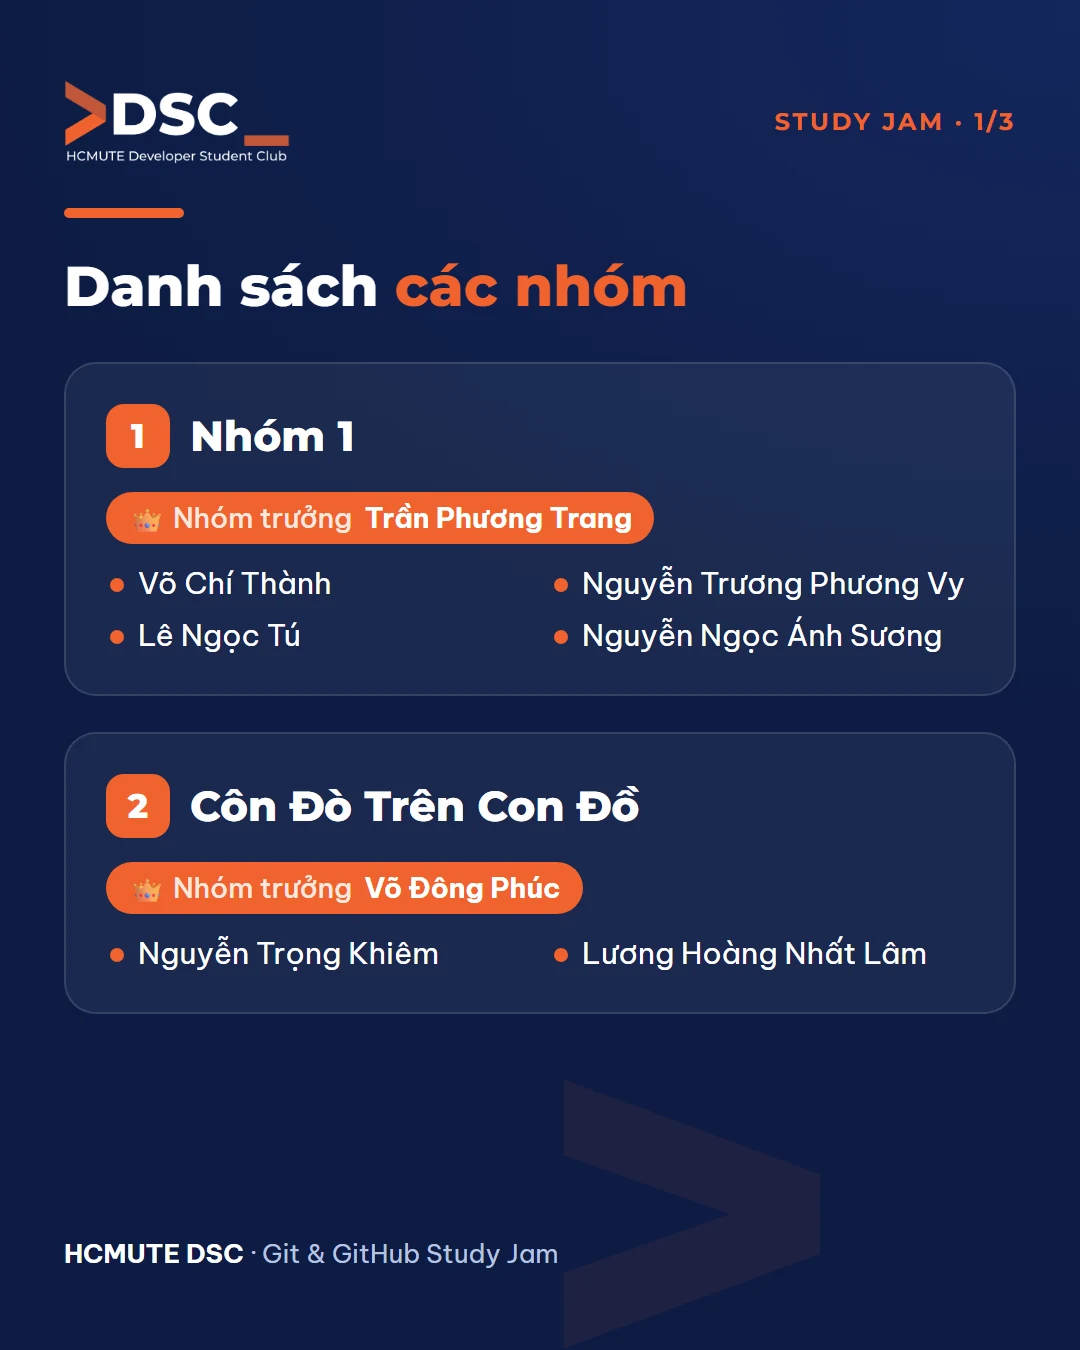
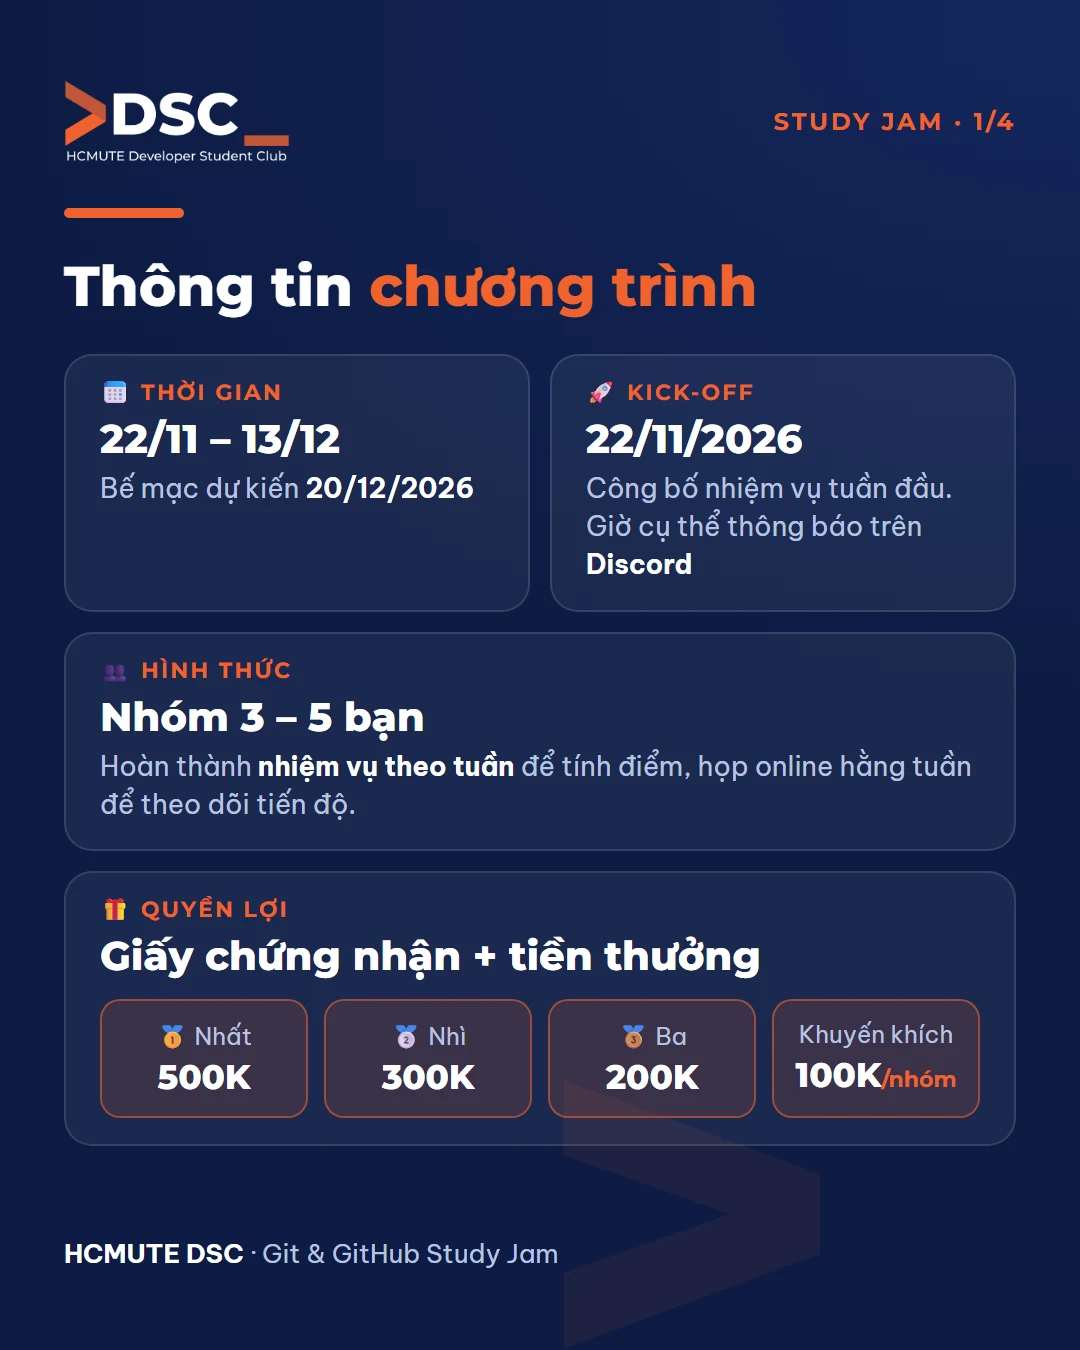
News: add program info (dates, format, prizes) to the Study Jam teams post
New slide 2 in the HTML design, so the post now has 5 images. Student IDs
are still left out of the public post.

diff --git a/design/news/2026-11-21-study-jam-teams.html b/design/news/2026-11-21-study-jam-teams.html
@@ -35,6 +35,7 @@
     content: ">_"; position: absolute; right: -30px; bottom: -120px; font: 800 520px/1 "Montserrat", sans-serif;
     color: rgba(240, 98, 45, .07); pointer-events: none;
   }
+  .slide > * { flex-shrink: 0; }
   .top { display: flex; justify-content: space-between; align-items: center; }
   .top img { height: 84px; }
   .tag { font: 700 24px/1 "Montserrat", sans-serif; letter-spacing: .12em; color: var(--orange); }
@@ -68,6 +69,20 @@
 
   .thanks { margin-top: 36px; font-size: 36px; line-height: 1.5; color: var(--muted); position: relative; z-index: 1; }
   .thanks b { color: var(--ink); }
+
+  /* program info slide */
+  .info { display: flex; flex-direction: column; gap: 20px; margin-top: 36px; position: relative; z-index: 1; }
+  .row { display: flex; gap: 20px; }
+  .card { flex: 1; background: rgba(255,255,255,.06); border: 2px solid rgba(255,255,255,.12); border-radius: 28px; padding: 26px 34px; }
+  .card .k { font: 700 22px/1 "Montserrat", sans-serif; letter-spacing: .1em; color: var(--orange); margin-bottom: 12px; }
+  .card .v { font: 800 40px/1.15 "Montserrat", sans-serif; }
+  .card .s { font-size: 27px; line-height: 1.4; color: var(--muted); margin-top: 8px; }
+  .card .s b { color: var(--ink); }
+  .prizes { display: grid; grid-template-columns: repeat(4, 1fr); gap: 16px; margin-top: 20px; }
+  .prize { background: rgba(240,98,45,.14); border: 2px solid rgba(240,98,45,.55); border-radius: 20px; padding: 18px 8px; text-align: center; }
+  .prize .r { font-size: 24px; color: var(--muted); }
+  .prize .m { font: 800 34px/1.2 "Montserrat", sans-serif; margin-top: 6px; }
+  .prize .m small { font-size: 22px; font-weight: 700; color: var(--orange); }
 </style>
 </head>
 <body>
@@ -90,10 +105,36 @@
   </div>
 </section>
 
-<!-- ============ ẢNH 2 · NHÓM 1-2 ============ -->
-<p class="label">Ảnh 2 · Nhóm 1 – 2</p>
+<!-- ============ ẢNH 2 · THÔNG TIN CHƯƠNG TRÌNH ============ -->
+<p class="label">Ảnh 2 · Thông tin chương trình</p>
 <section class="slide" id="s2">
-  <div class="top"><img src="../../static/img/logo/hcmute-dsc-logo-dark.png" alt="HCMUTE DSC"><span class="tag">STUDY JAM · 1/3</span></div>
+  <div class="top"><img src="../../static/img/logo/hcmute-dsc-logo-dark.png" alt="HCMUTE DSC"><span class="tag">STUDY JAM · 1/4</span></div>
+  <div class="bar"></div>
+  <h2>Thông tin <em>chương trình</em></h2>
+  <div class="info">
+    <div class="row">
+      <div class="card"><div class="k">📅 THỜI GIAN</div><div class="v">22/11 – 13/12</div><div class="s">Bế mạc dự kiến <b>20/12/2026</b></div></div>
+      <div class="card"><div class="k">🚀 KICK-OFF</div><div class="v">22/11/2026</div><div class="s">Công bố nhiệm vụ tuần đầu. Giờ cụ thể thông báo trên <b>Discord</b></div></div>
+    </div>
+    <div class="card"><div class="k">👥 HÌNH THỨC</div><div class="v">Nhóm 3 – 5 bạn</div><div class="s">Hoàn thành <b>nhiệm vụ theo tuần</b> để tính điểm, họp online hằng tuần để theo dõi tiến độ.</div></div>
+    <div class="card">
+      <div class="k">🎁 QUYỀN LỢI</div>
+      <div class="v">Giấy chứng nhận + tiền thưởng</div>
+      <div class="prizes">
+        <div class="prize"><div class="r">🥇 Nhất</div><div class="m">500K</div></div>
+        <div class="prize"><div class="r">🥈 Nhì</div><div class="m">300K</div></div>
+        <div class="prize"><div class="r">🥉 Ba</div><div class="m">200K</div></div>
+        <div class="prize"><div class="r">Khuyến khích</div><div class="m">100K<small>/nhóm</small></div></div>
+      </div>
+    </div>
+  </div>
+  <div class="footer"><span><b>HCMUTE DSC</b> · Git &amp; GitHub Study Jam</span></div>
+</section>
+
+<!-- ============ ẢNH 3 · NHÓM 1-2 ============ -->
+<p class="label">Ảnh 3 · Nhóm 1 – 2</p>
+<section class="slide" id="s3">
+  <div class="top"><img src="../../static/img/logo/hcmute-dsc-logo-dark.png" alt="HCMUTE DSC"><span class="tag">STUDY JAM · 2/4</span></div>
   <div class="bar"></div>
   <h2>Danh sách <em>các nhóm</em></h2>
   <div class="teams">
@@ -116,10 +157,10 @@
   <div class="footer"><span><b>HCMUTE DSC</b> · Git &amp; GitHub Study Jam</span></div>
 </section>
 
-<!-- ============ ẢNH 3 · NHÓM 3-4 ============ -->
-<p class="label">Ảnh 3 · Nhóm 3 – 4</p>
-<section class="slide" id="s3">
-  <div class="top"><img src="../../static/img/logo/hcmute-dsc-logo-dark.png" alt="HCMUTE DSC"><span class="tag">STUDY JAM · 2/3</span></div>
+<!-- ============ ẢNH 4 · NHÓM 3-4 ============ -->
+<p class="label">Ảnh 4 · Nhóm 3 – 4</p>
+<section class="slide" id="s4">
+  <div class="top"><img src="../../static/img/logo/hcmute-dsc-logo-dark.png" alt="HCMUTE DSC"><span class="tag">STUDY JAM · 3/4</span></div>
   <div class="bar"></div>
   <h2>Danh sách <em>các nhóm</em></h2>
   <div class="teams">
@@ -143,10 +184,10 @@
   <div class="footer"><span><b>HCMUTE DSC</b> · Git &amp; GitHub Study Jam</span></div>
 </section>
 
-<!-- ============ ẢNH 4 · NHÓM 5 + LỜI CẢM ƠN ============ -->
-<p class="label">Ảnh 4 · Nhóm 5 + nhắc theo dõi</p>
-<section class="slide" id="s4">
-  <div class="top"><img src="../../static/img/logo/hcmute-dsc-logo-dark.png" alt="HCMUTE DSC"><span class="tag">STUDY JAM · 3/3</span></div>
+<!-- ============ ẢNH 5 · NHÓM 5 + NHẮC THEO DÕI ============ -->
+<p class="label">Ảnh 5 · Nhóm 5 + nhắc theo dõi</p>
+<section class="slide" id="s5">
+  <div class="top"><img src="../../static/img/logo/hcmute-dsc-logo-dark.png" alt="HCMUTE DSC"><span class="tag">STUDY JAM · 4/4</span></div>
   <div class="bar"></div>
   <h2>Danh sách <em>các nhóm</em></h2>
   <div class="teams">

diff --git a/news/2026-11-21-cong-bo-danh-sach-cac-nhom-tham-gia-git-github-study-jam/index.md b/news/2026-11-21-cong-bo-danh-sach-cac-nhom-tham-gia-git-github-study-jam/index.md
@@ -10,7 +10,7 @@ tags:
   - label: "Study Jam"
     permalink: /study-jam
 image: ./img-1.webp
-description: "Sau thời gian đăng ký, HCMUTE DSC ghi nhận 5 nhóm tham gia Git & GitHub Study Jam với tổng số 22 bạn sinh viên. Cùng xem danh sách các nhóm và thành viên nhé!"
+description: "Sau thời gian đăng ký, HCMUTE DSC ghi nhận 5 nhóm tham gia Git & GitHub Study Jam với tổng số 22 bạn sinh viên. Cùng xem thông tin chương trình và danh sách các nhóm nhé!"
 ---
 
 \[GIT & GITHUB STUDY JAM | CÔNG BỐ DANH SÁCH CÁC NHÓM THAM GIA\]
@@ -21,9 +21,23 @@ description: "Sau thời gian đăng ký, HCMUTE DSC ghi nhận 5 nhóm tham gia
 
 ![Git & GitHub Study Jam | Công bố danh sách các nhóm tham gia (1)](./img-1.webp)
 
-🙌 CLB xin gửi lời cảm ơn chân thành đến tất cả các bạn đã quan tâm và đăng ký tham gia chương trình. Dưới đây là danh sách các nhóm và thành viên:
+🙌 CLB xin gửi lời cảm ơn chân thành đến tất cả các bạn đã quan tâm và đăng ký tham gia chương trình.
 
-### 👥 Nhóm 1
+### 📌 Thông tin chương trình
+
+- 📅 **Thời gian:** 22/11/2026 – 13/12/2026, bế mạc dự kiến ngày 20/12/2026.
+- 🚀 **Kick-off:** ngày 22/11/2026, công bố nhiệm vụ tuần đầu tiên. Khung giờ cụ thể sẽ được thông báo trên Discord của CLB.
+- 👥 **Hình thức:** làm việc nhóm (3 – 5 thành viên), hoàn thành các nhiệm vụ theo tuần để tính điểm và họp online hằng tuần để theo dõi tiến độ.
+- 🎁 **Quyền lợi:** các nhóm hoàn thành chương trình nhận giấy chứng nhận. Cơ cấu giải thưởng gồm:
+  - 🥇 1 giải Nhất: 500.000 đồng
+  - 🥈 1 giải Nhì: 300.000 đồng
+  - 🥉 1 giải Ba: 200.000 đồng
+  - Các nhóm còn lại nhận giải Khuyến khích, mỗi giải trị giá 100.000 đồng
+- 📖 **Thể lệ chi tiết:** https://mentoring.hcmute-dsc.io.vn/git-github-rules/
+
+### 👥 Danh sách các nhóm
+
+#### Nhóm 1
 
 - 👑 Nhóm trưởng: Trần Phương Trang
 - Võ Chí Thành
@@ -31,20 +45,20 @@ description: "Sau thời gian đăng ký, HCMUTE DSC ghi nhận 5 nhóm tham gia
 - Lê Ngọc Tú
 - Nguyễn Ngọc Ánh Sương
 
-### 👥 Nhóm Côn Đò Trên Con Đồ
+#### Nhóm Côn Đò Trên Con Đồ
 
 - 👑 Nhóm trưởng: Võ Đông Phúc
 - Nguyễn Trọng Khiêm
 - Lương Hoàng Nhất Lâm
 
-### 👥 Nhóm Đi code dạo
+#### Nhóm Đi code dạo
 
 - 👑 Nhóm trưởng: Nguyễn Ngọc Thịnh
 - Đỗ Đăng Anh Đức
 - Nguyễn Đăng Khôi
 - Nguyễn Thái Nam
 
-### 👥 Nhóm CODE TOÀN BUG
+#### Nhóm CODE TOÀN BUG
 
 - 👑 Nhóm trưởng: Ngô Thanh Vĩnh Hưng
 - Nguyễn Tô Mỹ Trà
@@ -52,7 +66,7 @@ description: "Sau thời gian đăng ký, HCMUTE DSC ghi nhận 5 nhóm tham gia
 - Lê Anh Khoa
 - Huỳnh Trung Trí Kiên
 
-### 👥 Nhóm We-novar-notha
+#### Nhóm We-novar-notha
 
 - 👑 Nhóm trưởng: Nguyễn Minh Duy
 - Nguyễn Hàng Bảo Ngân
@@ -62,7 +76,7 @@ description: "Sau thời gian đăng ký, HCMUTE DSC ghi nhận 5 nhóm tham gia
 
 🚀 Chúc các nhóm có thật nhiều niềm vui, học được nhiều điều bổ ích và cùng nhau hoàn thành thật tốt chương trình. Hãy theo dõi fanpage và máy chủ Discord của CLB để cập nhật những thông tin tiếp theo nhé!
 
-\_\_\_\_\_\_\_\_\_\_\_\_\_\_\_\_\_\_\_\_\_\_\_\_\_\_\_\_\_\_\_\_\_\_\_\_\_\_\_  
+\_\_\_\_\_\_\_\_\_\_\_\_\_\_\_\_\_\_\_\_\_\_\_\_\_\_\_\_\_\_\_\_\_\_\_\_\_\_\_\_\_\_\_\_\_  
 Mọi ý kiến đóng góp, các bạn có thể liên hệ trực tiếp thông qua fanpage HCMUTE Developer Student Club: https://www.facebook.com/hcmute.dsc/  
 \#HCMUTE\_DSC \#Developer\_Student\_Club \#STUDY\_JAM \#GIT\_GITHUB
 
@@ -71,5 +85,6 @@ Mọi ý kiến đóng góp, các bạn có thể liên hệ trực tiếp thôn
 ![Git & GitHub Study Jam | Công bố danh sách các nhóm tham gia (2)](./img-2.webp)
 ![Git & GitHub Study Jam | Công bố danh sách các nhóm tham gia (3)](./img-3.webp)
 ![Git & GitHub Study Jam | Công bố danh sách các nhóm tham gia (4)](./img-4.webp)
+![Git & GitHub Study Jam | Công bố danh sách các nhóm tham gia (5)](./img-5.webp)
 
 </div>
